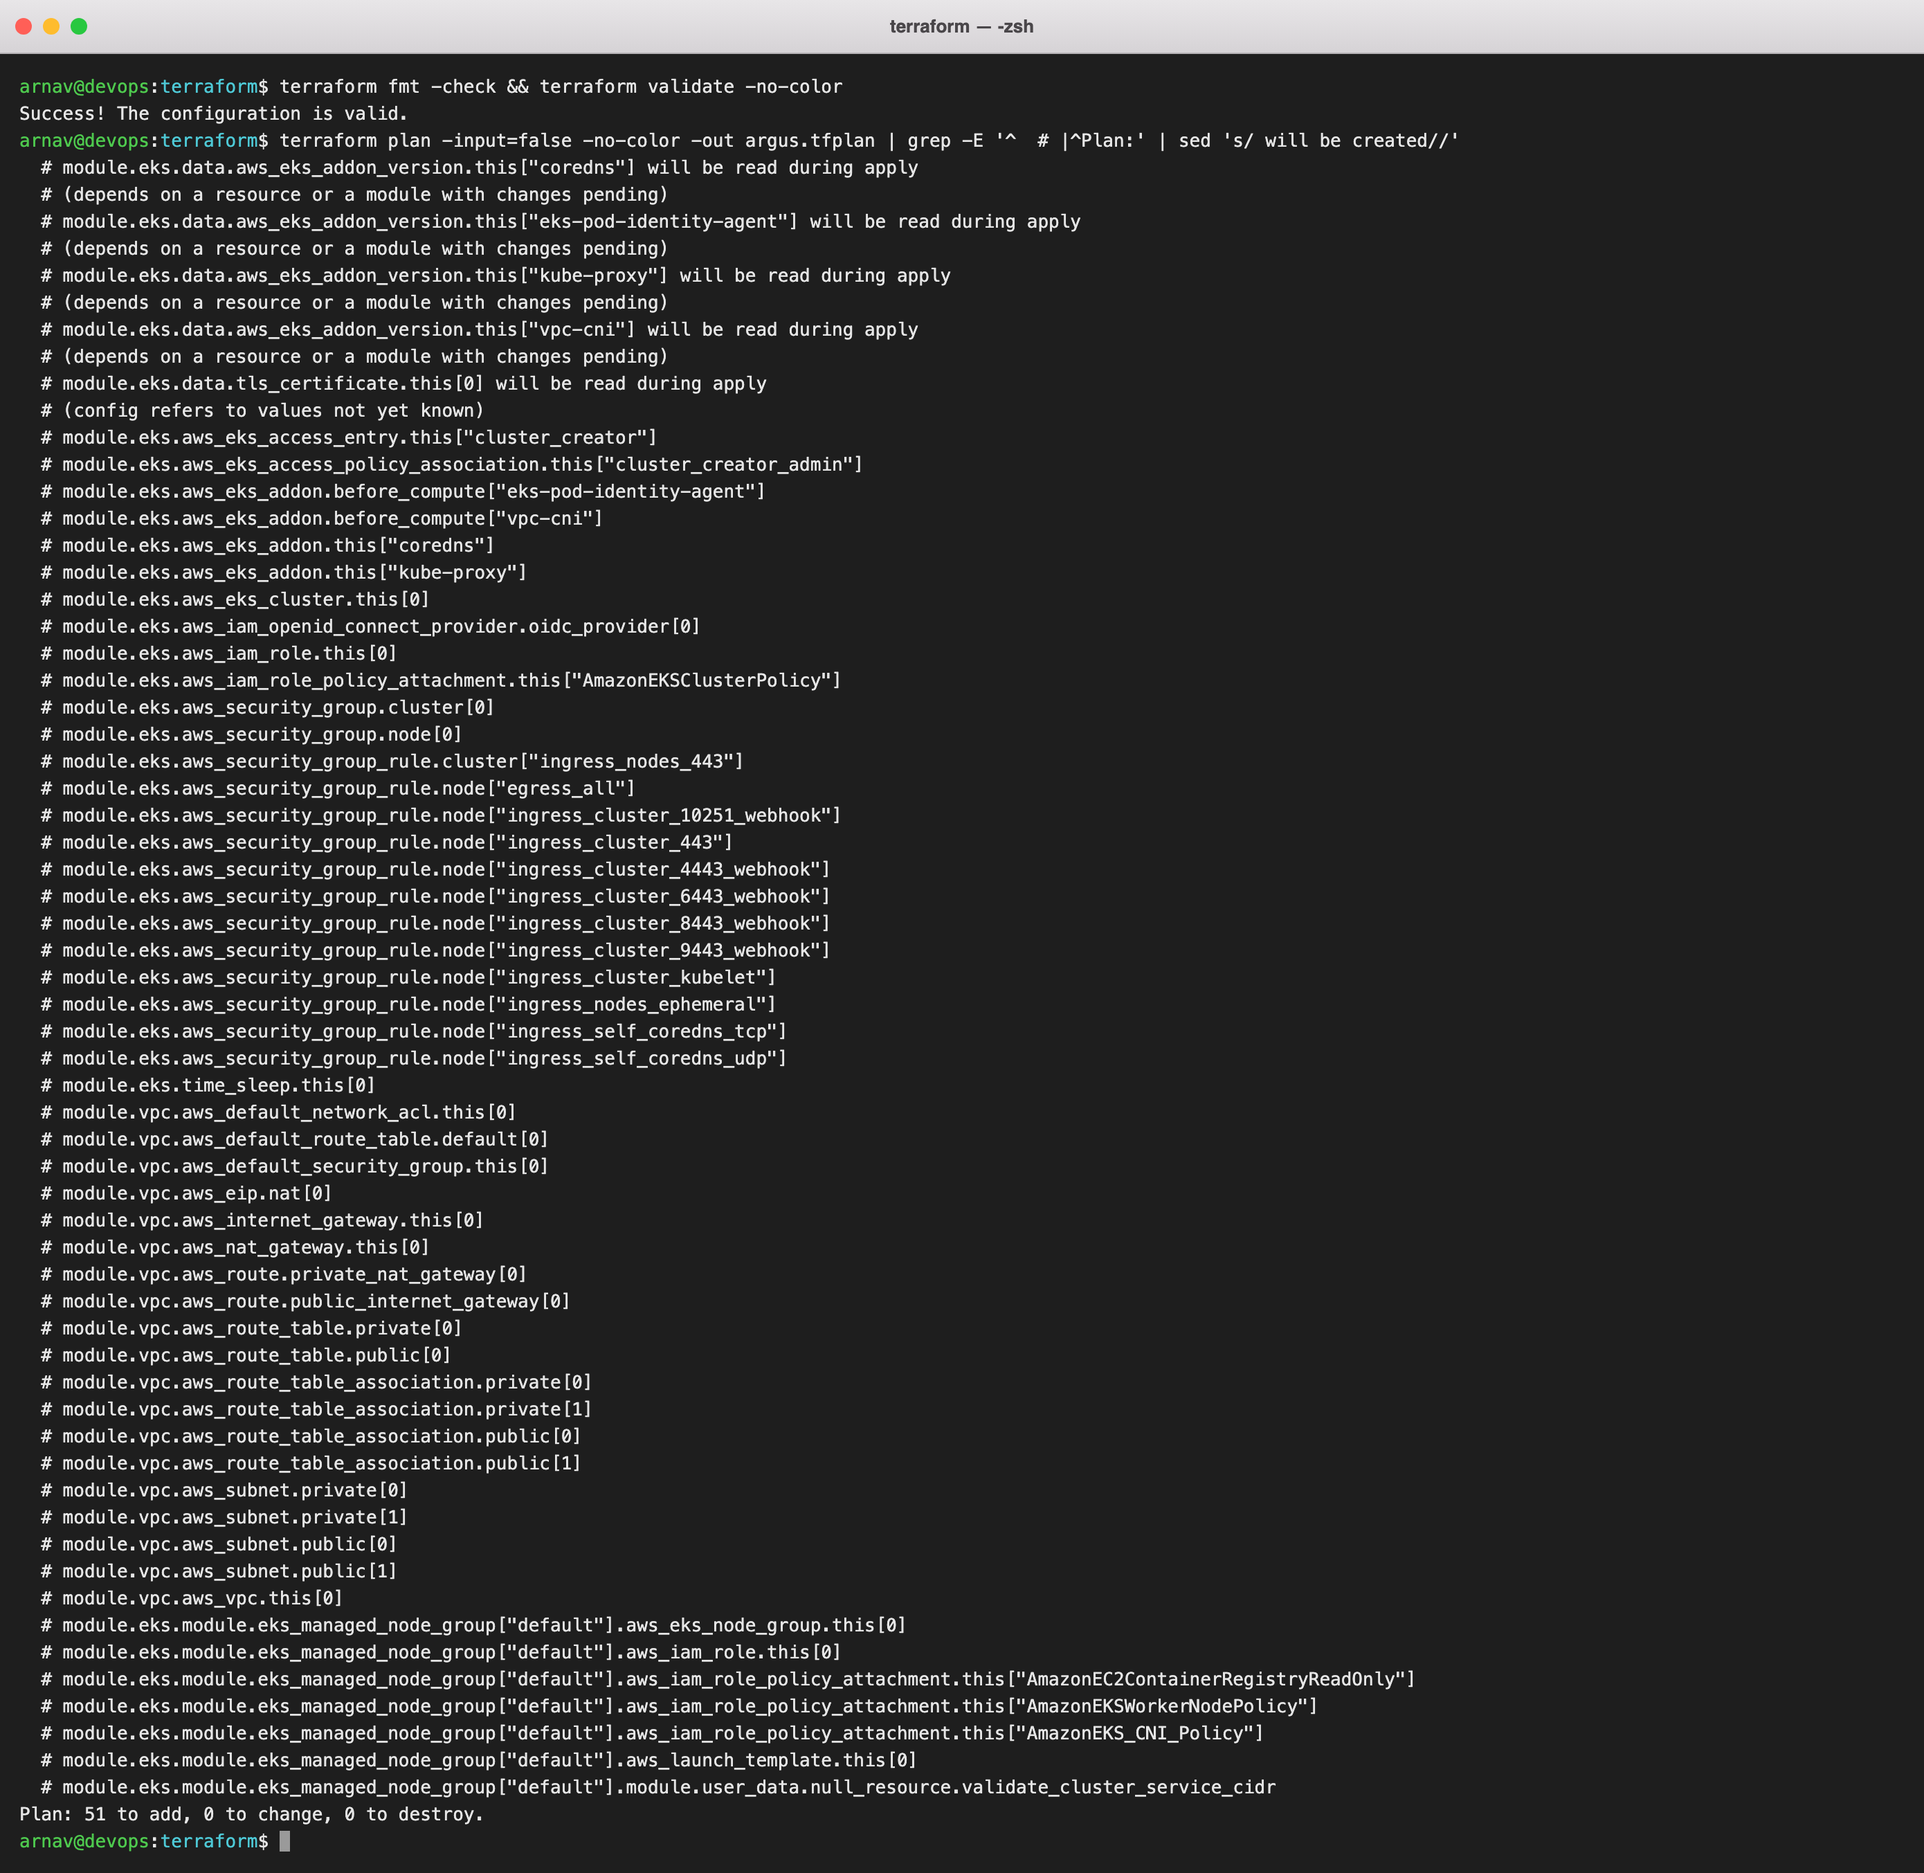
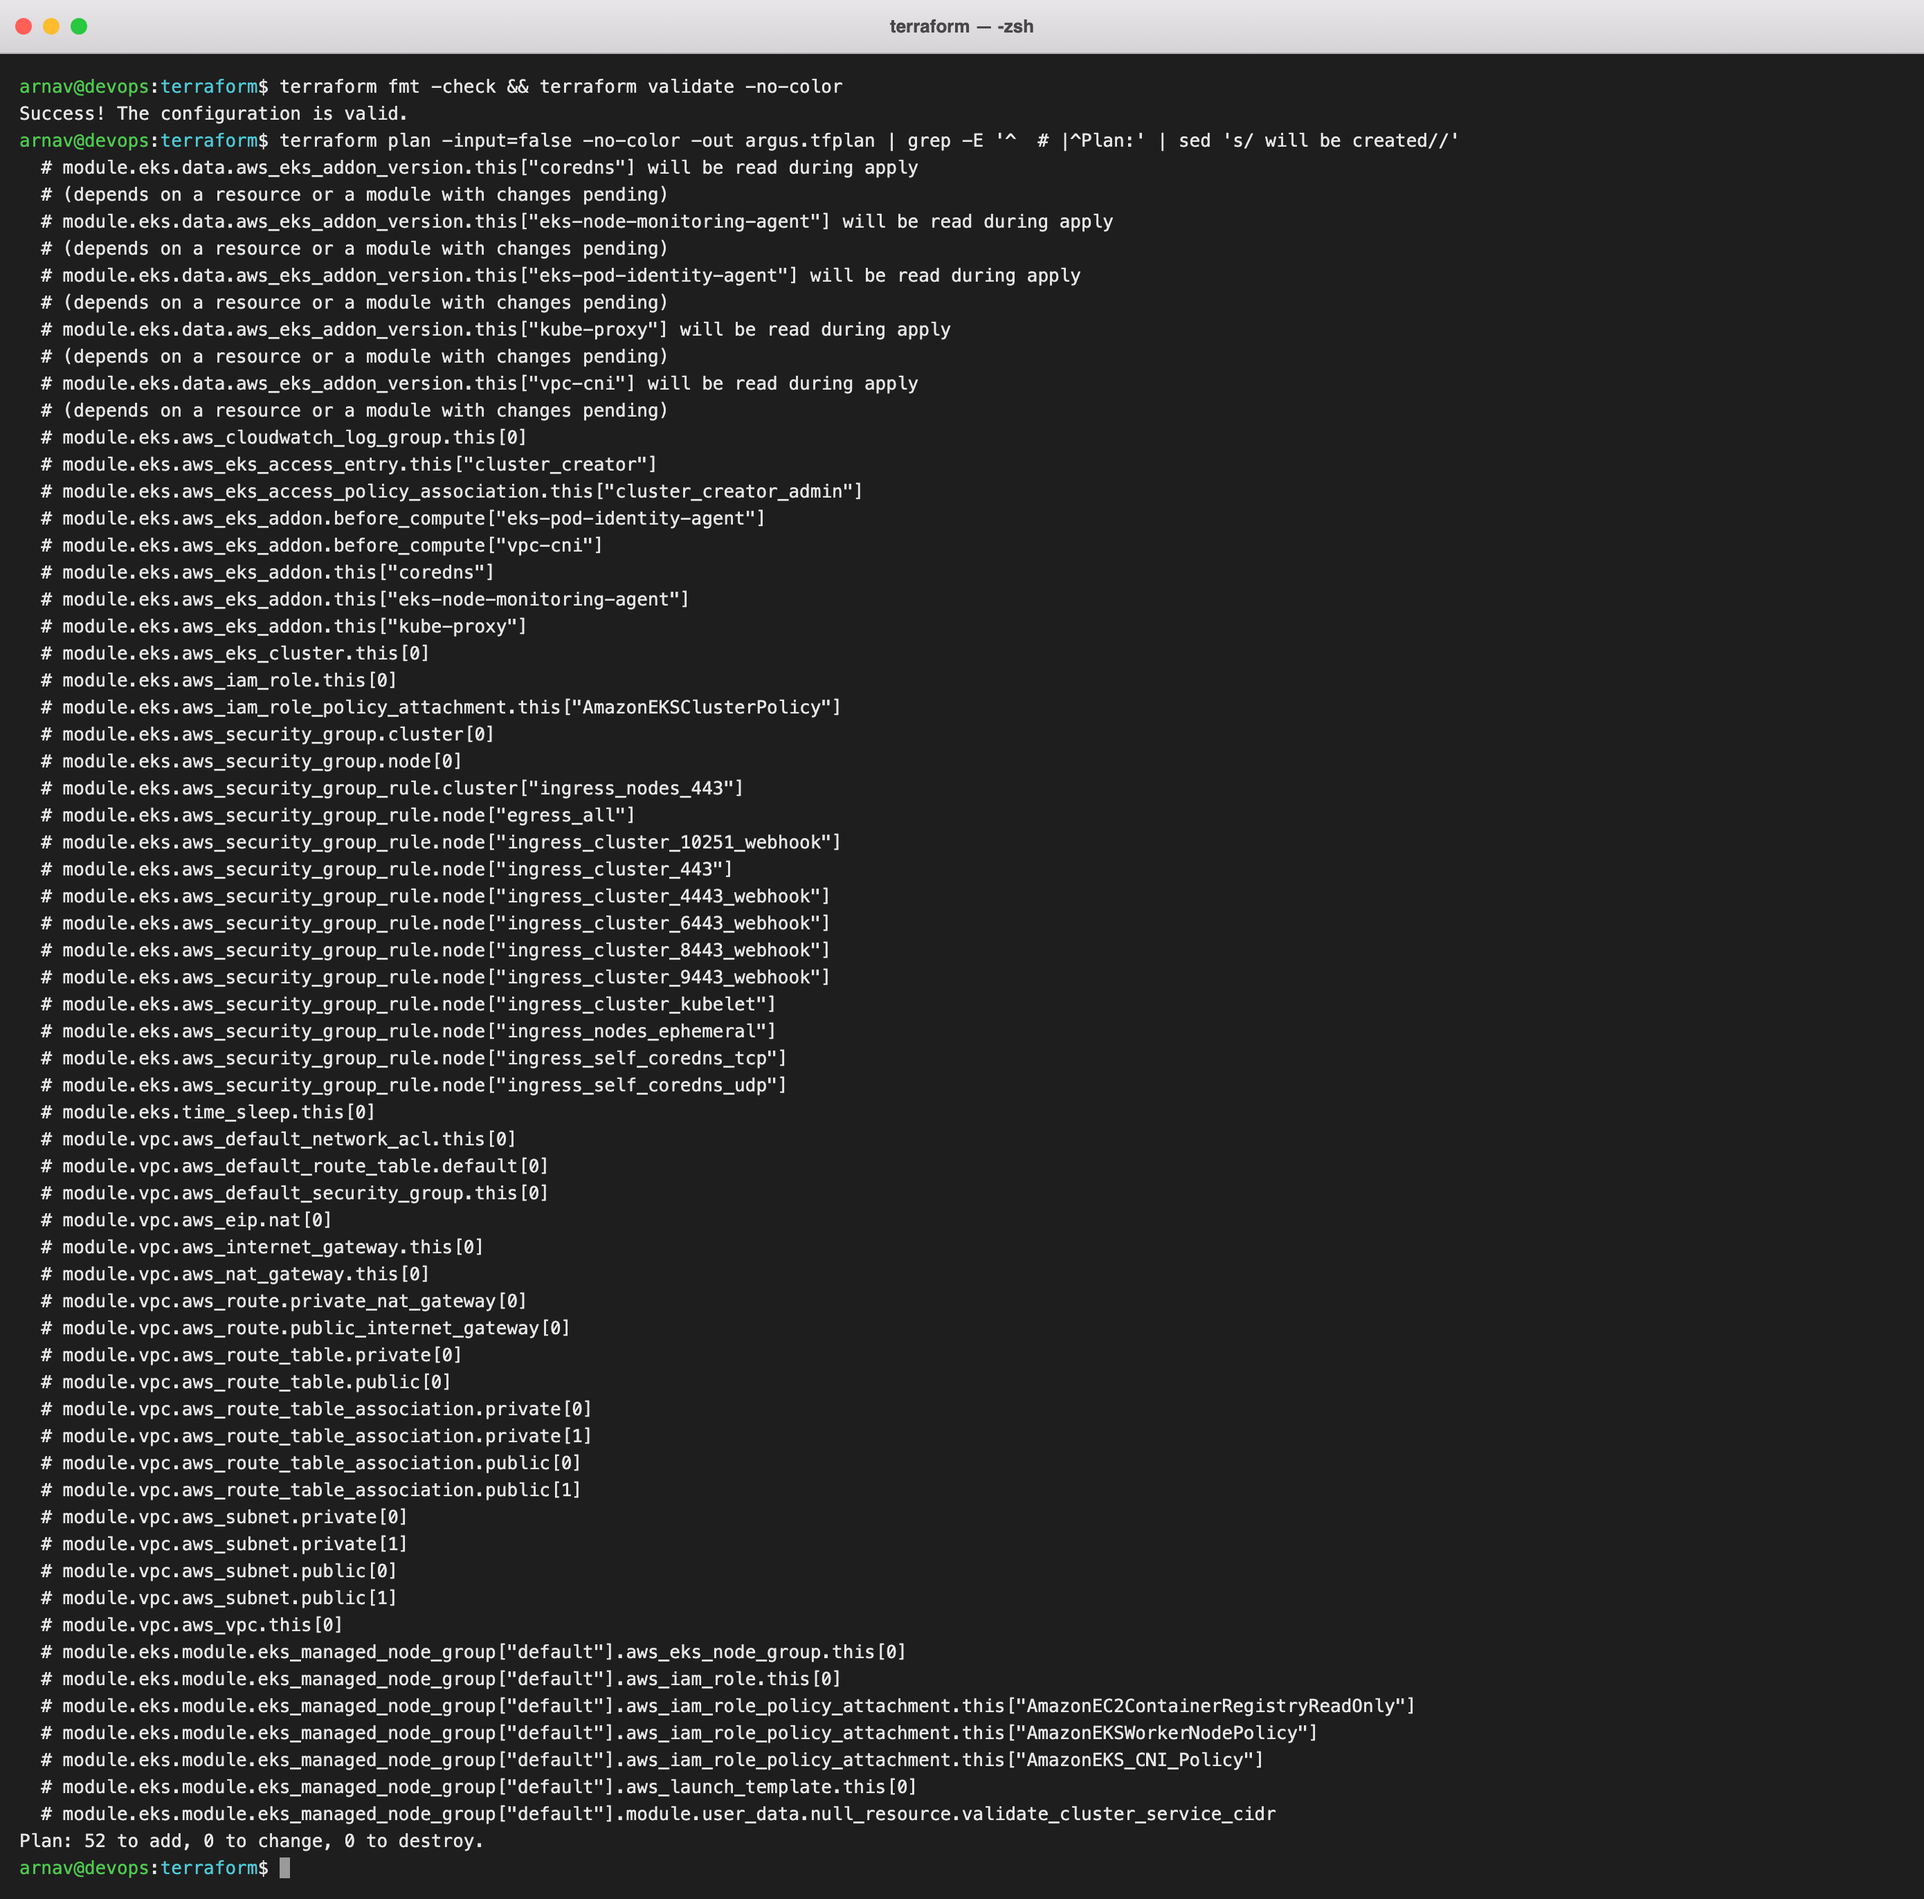
Evidence for the hardened EKS cluster
The cluster was applied again with the hardening and torn down. M7 now shows the new
plan and apply, a read-back from AWS of every hardening setting, the console pages, and
a destroy verified empty, CloudWatch log group included. The console configuration
screenshot is cropped above the endpoint allow-list, which shows the operator's IP.

Changed region(s): [[0.0, 0.031, 0.6806, 0.9933], [0.7115, 0.0621, 0.7424, 0.0931], [0.6806, 0.8692, 0.7115, 0.9002]]

diff --git a/docs/EVIDENCE.md b/docs/EVIDENCE.md
@@ -12,7 +12,7 @@ the capstone rubric they evidence.
 | [M4 Docker](#m4--docker) | 10 | `compose up --build`, non-root images, app on :3000 |
 | [M5 CI/CD](#m5--cicd) | 15 | green pipeline, GHCR packages with SHA tags |
 | [M6 DevSecOps](#m6--devsecops) | 5 | Trivy gate blocking, then passing on both architectures, with explanation |
-| [M7 Terraform](#m7--terraform) | 15 | plan, apply, AWS Console (VPC + EKS), live nodes, destroy verified empty |
+| [M7 Terraform](#m7--terraform) | 15 | plan, apply, hardening read back from AWS, AWS Console (VPC + EKS), destroy verified empty |
 | [M8 Kubernetes + Helm](#m8--kubernetes--helm) | 15 | `helm upgrade --install`, pods, services, Ingress |
 | [M9 Observability](#m9--observability) | 10 | `/metrics`, Prometheus targets UP, Grafana dashboard |
 | [M10 Docs + demo](#m10--documentation-and-live-demo) | 5 | README, commit → pipeline → GitOps rollout |
@@ -124,16 +124,20 @@ scanned clean at every severity, so `ignore-unfixed` was removed: the gate now f
 ## M7 — Terraform
 
 [`terraform/`](../terraform) provisions a VPC with two public and two private subnets, a NAT
-gateway, and an EKS 1.35 cluster with a managed node group, in `ap-southeast-2`.
+gateway, and an EKS 1.35 cluster with a managed node group, in `ap-southeast-2`. The cluster
+follows HashiCorp's Terraform security guidance and AWS's EKS guidance (see
+[Security decisions](../terraform/README.md#security-decisions)): the Kubernetes API is
+reachable only from the operator's address, node disks are encrypted, control-plane logs go to
+CloudWatch, and unhealthy nodes are repaired automatically.
 
 ![terraform plan](evidence/m7-terraform-plan.png)
 
-**Apply.** The first `terraform apply` created 50 of the 51 resources: the VPC, subnets,
-NAT gateway, the EKS cluster, its add-ons and the node group. It then stopped on one: this
-AWS account's organization policy denies `iam:CreateOpenIDConnectProvider`, the OIDC
-provider the EKS module creates by default for IRSA. Nothing in Argus uses IRSA, and the
-cluster already runs the EKS Pod Identity agent, so the fix was `enable_irsa = false`
-rather than a workaround. The next apply found nothing left to do.
+**Apply.** Applying the saved plan created all 52 resources: the VPC, subnets, NAT gateway,
+the CloudWatch log group, the EKS cluster (8 minutes), its five add-ons and the node group.
+The very first apply of this project had stopped on one resource: this AWS account's
+organization policy denies `iam:CreateOpenIDConnectProvider`, the OIDC provider the EKS module
+creates by default for IRSA. Nothing in Argus uses IRSA, and the cluster runs the EKS Pod
+Identity agent instead, so the fix was `enable_irsa = false` rather than a workaround.
 
 ![terraform apply](evidence/m7-terraform-apply.png)
 
@@ -143,40 +147,71 @@ the VPC has two public and two private subnets across two availability zones:
 
 ![EKS cluster live](evidence/m7-eks-cluster-live.png)
 
+**The hardening, read back from AWS** rather than from Terraform's state:
+
+- Authentication is through access entries only.
+- API, audit and authenticator logs are on, kept for one day.
+- The public endpoint accepts only the operator's `/32`, masked here, while the nodes use the
+  private endpoint.
+- Five add-ons are installed, including the node monitoring agent, and node auto repair is
+  on.
+- IMDSv2 is required with a hop limit of 1.
+- Both node volumes are **encrypted** gp3. This account does not encrypt EBS by default, so
+  the node disks of the earlier applies were not.
+
+![EKS hardening live](evidence/m7-eks-security-live.png)
+
 The VPC behind it: the internet gateway is attached, the NAT gateway is available, the
 private subnets route through the NAT and the public subnets through the internet gateway.
-At this point 23 resources carry the `Project=argus` tag.
+At this point 28 resources carry the `Project=argus` tag.
 
 ![VPC live](evidence/m7-aws-vpc-live.png)
 
 **In the AWS Console** (`ap-southeast-2`, shown in the ARNs, endpoint and AZ names). The VPC's
 resource map shows the two public and two private subnets across `ap-southeast-2a` and
-`ap-southeast-2b`, the three route tables, and the internet gateway:
+`ap-southeast-2b`, the three route tables, and the internet gateway. It was taken during an
+earlier apply. The VPC code has not changed since, only its IDs:
 
 ![AWS Console: VPC resource map](evidence/m7-aws-console-vpc.png)
 
-The EKS cluster: **Active**, Kubernetes **1.35** on standard support until March 2027, one
-managed node group, four add-ons, and no IAM OIDC providers (IRSA is off):
+The EKS cluster:
+
+- **Active**, Kubernetes **1.35**, on standard support until March 2027.
+- One managed node group and five add-ons.
+- Three IAM access entries (the Terraform identity, the node role and the EKS service role)
+  and no IAM OIDC providers, since IRSA is off.
+
+The console shows no pods or nodes because the console login is not one of those access
+entries. With authentication mode *EKS API*, nothing else can reach Kubernetes. The nodes are
+listed by `kubectl` above.
 
 ![AWS Console: EKS cluster](evidence/m7-aws-console-eks.png)
 
-Its configuration: the upgrade policy is pinned to standard support, deletion protection is
-off so `destroy` can remove it, and encryption uses the AWS-owned key, so there is no
-customer KMS key left behind. The networking is the Terraform-built VPC:
+Its configuration:
+
+- Authentication mode *EKS API* and standard support.
+- Deletion protection off, so `destroy` can remove it.
+- Encryption with the AWS-owned key, so there is no customer KMS key left behind.
+- Networking in the Terraform-built VPC with public and private endpoint access.
+
+The image is cropped just above the endpoint allow-list, because that shows the operator's IP
+address:
 
 ![AWS Console: EKS configuration](evidence/m7-aws-console-eks-config.png)
 
-Control-plane logging is off, so there is no log group to outlive the cluster, and every
-resource carries the `Project=argus` tag used to verify the teardown:
+Control-plane logging has API server, audit and authenticator logs on. Every resource carries
+the `Project=argus` tag used to verify the teardown:
 
 ![AWS Console: EKS logging and tags](evidence/m7-aws-console-eks-tags.png)
 
-**Destroy.** `terraform destroy` removed all 50 resources. The checks afterwards query AWS
-directly, not Terraform's state: no EKS clusters, no tagged VPCs, no NAT gateways, no Elastic
-IPs, no running instances and no load balancers. Nothing is left to bill. The cluster was
-created twice, once for the evidence above and once for the console screenshots, and was
-destroyed and verified empty both times. That was about an hour in total, under $0.50 of
-the account's credit.
+**Destroy.** `terraform destroy` removed all 52 resources in about 12 minutes. The checks
+afterwards query AWS directly, not Terraform's state. None of these are left: EKS clusters,
+tagged VPCs, NAT gateways, Elastic IPs, running instances, node volumes, load balancers, or
+the EKS log group. Nothing is left to bill.
+
+The cluster was created three times: for the first evidence, for the console screenshots, and
+for this hardened version. It was destroyed and verified empty each time. That came to about an
+hour and a half of running time, well under $1 of the account's credit.
 
 ![terraform destroy](evidence/m7-terraform-destroy.png)
 
